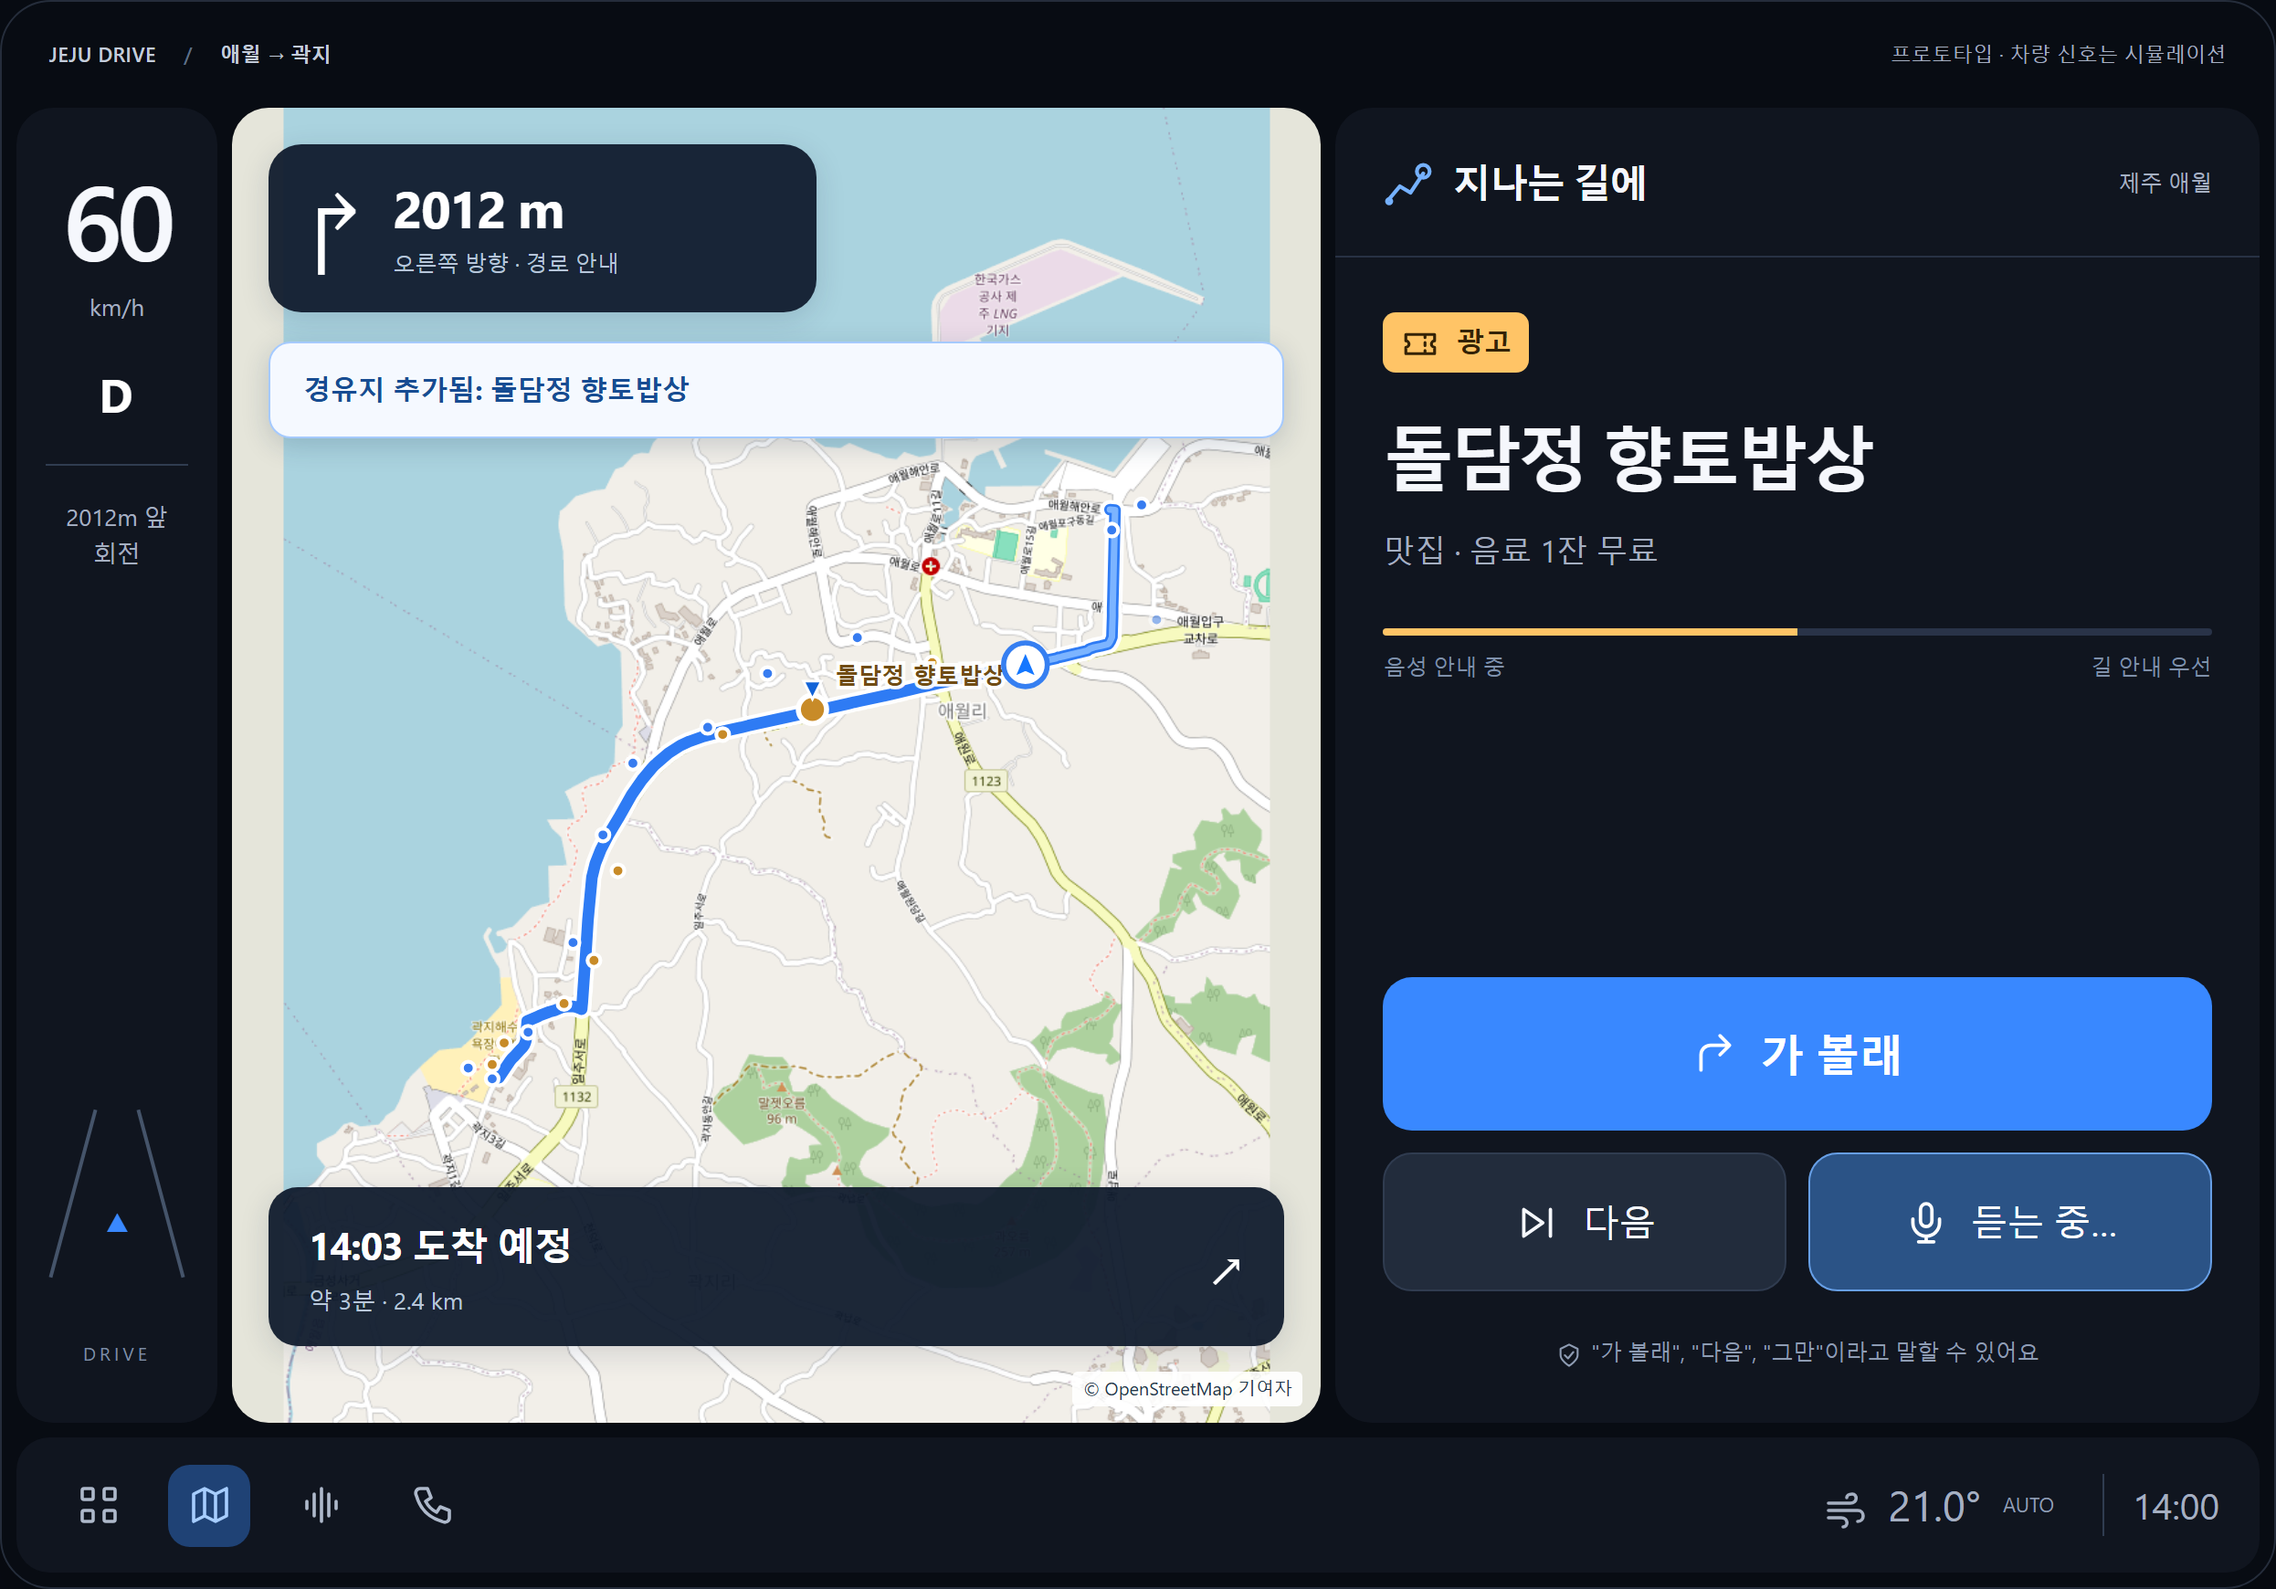
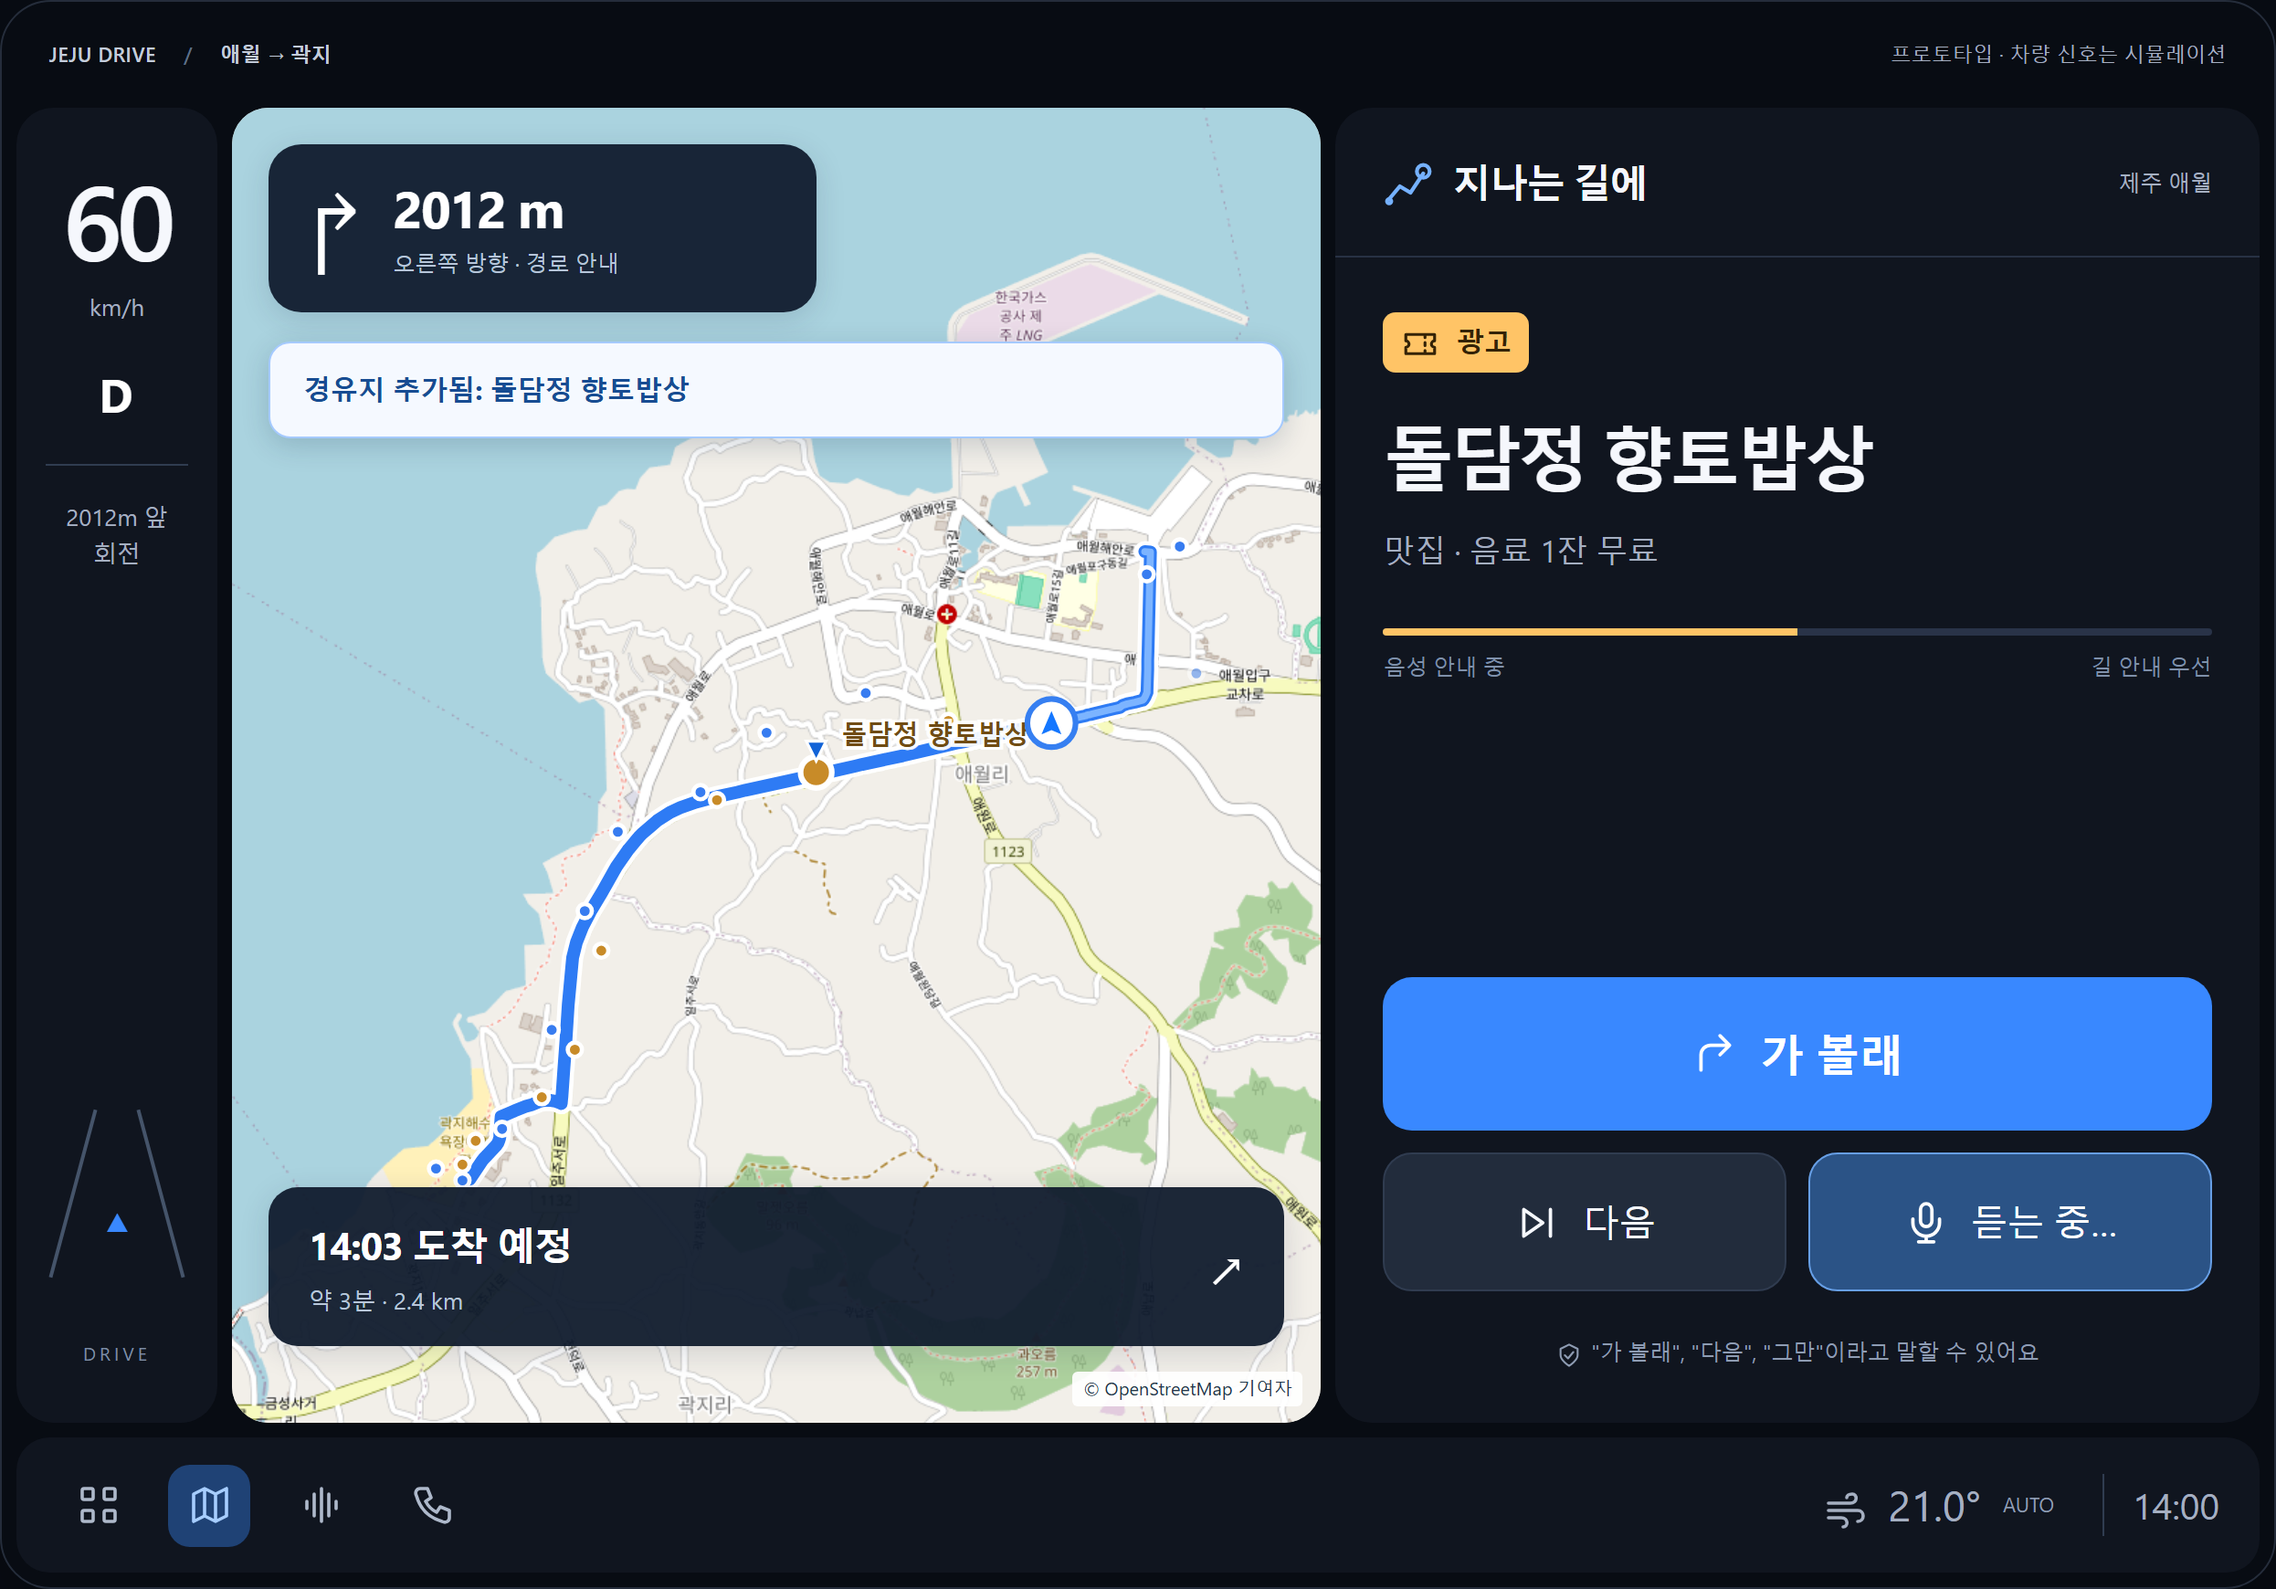
Keep map filled and vehicle visible in every window size

diff --git a/prototype/b/screen.js b/prototype/b/screen.js
@@ -30,6 +30,19 @@
     ((1 - Math.asinh(Math.tan(lat * Math.PI / 180)) / Math.PI) / 2 * 32768 - 13147) * 256,
   ];
   const line = points => points.map(p => xy(p).map(v => v.toFixed(1)).join(',')).join(' ');
+  // Fill any app-window aspect ratio and keep the live car inside the viewport.
+  function fitMap(x, y) {
+    const bounds = $('map').getBoundingClientRect();
+    if (!bounds.width || !bounds.height) return;
+    const ratio = bounds.width / bounds.height;
+    const width = Math.min(768, 1024 * ratio), height = width / ratio;
+    const left = Math.max(0, Math.min(768 - width, x - width / 2));
+    const top = Math.max(0, Math.min(1024 - height, y - height / 2));
+    $('map').setAttribute('viewBox', `${left} ${top} ${width} ${height}`);
+  }
+  new ResizeObserver(() => {
+    if (lastVehicle) fitMap(...xy(App.route.pointAt(lastVehicle.posM)));
+  }).observe($('map'));
 
   App.redrawMap = () => {
     const places = App.contents.map(c => {
@@ -235,8 +248,8 @@
     $('tbt').textContent = v.tbt;
     const nextTurn = App.route.maneuvers.find(m => m.routeM > v.posM);
     $('turnDistance').textContent = v.gear === 'P' ? '정차 중' : nextTurn ? `${Math.max(0, Math.round(nextTurn.routeM - v.posM))} m` : '도착지 근처';
-    $('turnRoad').textContent = v.gear === 'P' ? '애월 → 곽지 · 일주서로' : nextTurn && /왼쪽/.test(nextTurn.text) ? '왼쪽 방향 · 경로 안내' : '오른쪽 방향 · 경로 안내';
-    $('turnIcon').textContent = v.gear === 'P' ? 'P' : nextTurn && /왼쪽/.test(nextTurn.text) ? '↰' : '↱';
+    $('turnRoad').textContent = v.gear === 'P' ? '애월 → 곽지 · 일주서로' : !nextTurn ? '곽지 · 경로 끝' : /왼쪽/.test(nextTurn.text) ? '왼쪽 방향 · 경로 안내' : '오른쪽 방향 · 경로 안내';
+    $('turnIcon').textContent = v.gear === 'P' ? 'P' : !nextTurn ? '●' : /왼쪽/.test(nextTurn.text) ? '↰' : '↱';
     const remaining = Math.max(0, App.route.length - v.posM);
     const minutes = Math.max(1, Math.ceil(remaining / Math.max(v.speedKmh / 3.6, 1) / 60));
     const clock = new Date();
@@ -247,6 +260,7 @@
     const passed = App.route.points.filter((p, i) => App.route.project(p[0], p[1]) <= v.posM || i === 0);
     $('passed').setAttribute('points', line([...passed, App.route.pointAt(v.posM)]));
     const [x, y] = xy(App.route.pointAt(v.posM));
+    fitMap(x, y);
     const dot = $('carDot');
     dot.setAttribute('transform', `translate(${x},${y})`);
   };

diff --git a/android/app/src/main/java/app/curator/RouteView.kt b/android/app/src/main/java/app/curator/RouteView.kt
@@ -11,7 +11,7 @@ import android.view.View
 import org.json.JSONObject
 import kotlin.math.PI
 import kotlin.math.asinh
-import kotlin.math.min
+import kotlin.math.max
 import kotlin.math.pow
 import kotlin.math.tan
 
@@ -34,15 +34,18 @@ class RouteView(context: Context) : View(context) {
         super.onDraw(canvas)
         val image = bitmap ?: return
         canvas.drawColor(Color.parseColor("#E6E5DA"))
-        val scale = min(width.toFloat() / image.width, height.toFloat() / image.height)
-        val offsetX = (width - image.width * scale) / 2
-        val offsetY = (height - image.height * scale) / 2
+        val scale = max(width.toFloat() / image.width, height.toFloat() / image.height)
+        val route = Now.route
+        val passed = route?.cumulative?.indexOfLast { it <= Now.posM }?.coerceAtLeast(0) ?: 0
+        val carPoint = route?.points?.getOrNull(passed)
+        val focusX = carPoint?.let { x(it.second) } ?: image.width / 2f
+        val focusY = carPoint?.let { y(it.first) } ?: image.height / 2f
+        val offsetX = (width / 2f - focusX * scale).coerceIn(minOf(0f, width - image.width * scale), 0f)
+        val offsetY = (height / 2f - focusY * scale).coerceIn(minOf(0f, height - image.height * scale), 0f)
         canvas.save()
         canvas.translate(offsetX, offsetY); canvas.scale(scale, scale)
         canvas.drawBitmap(image, 0f, 0f, paint)
-        val route = Now.route
         if (route != null) {
-            val passed = route.cumulative.indexOfLast { it <= Now.posM }.coerceAtLeast(0)
             val path = Path().apply {
                 route.points.forEachIndexed { i, point -> if (i == 0) moveTo(x(point.second), y(point.first)) else lineTo(x(point.second), y(point.first)) }
             }
